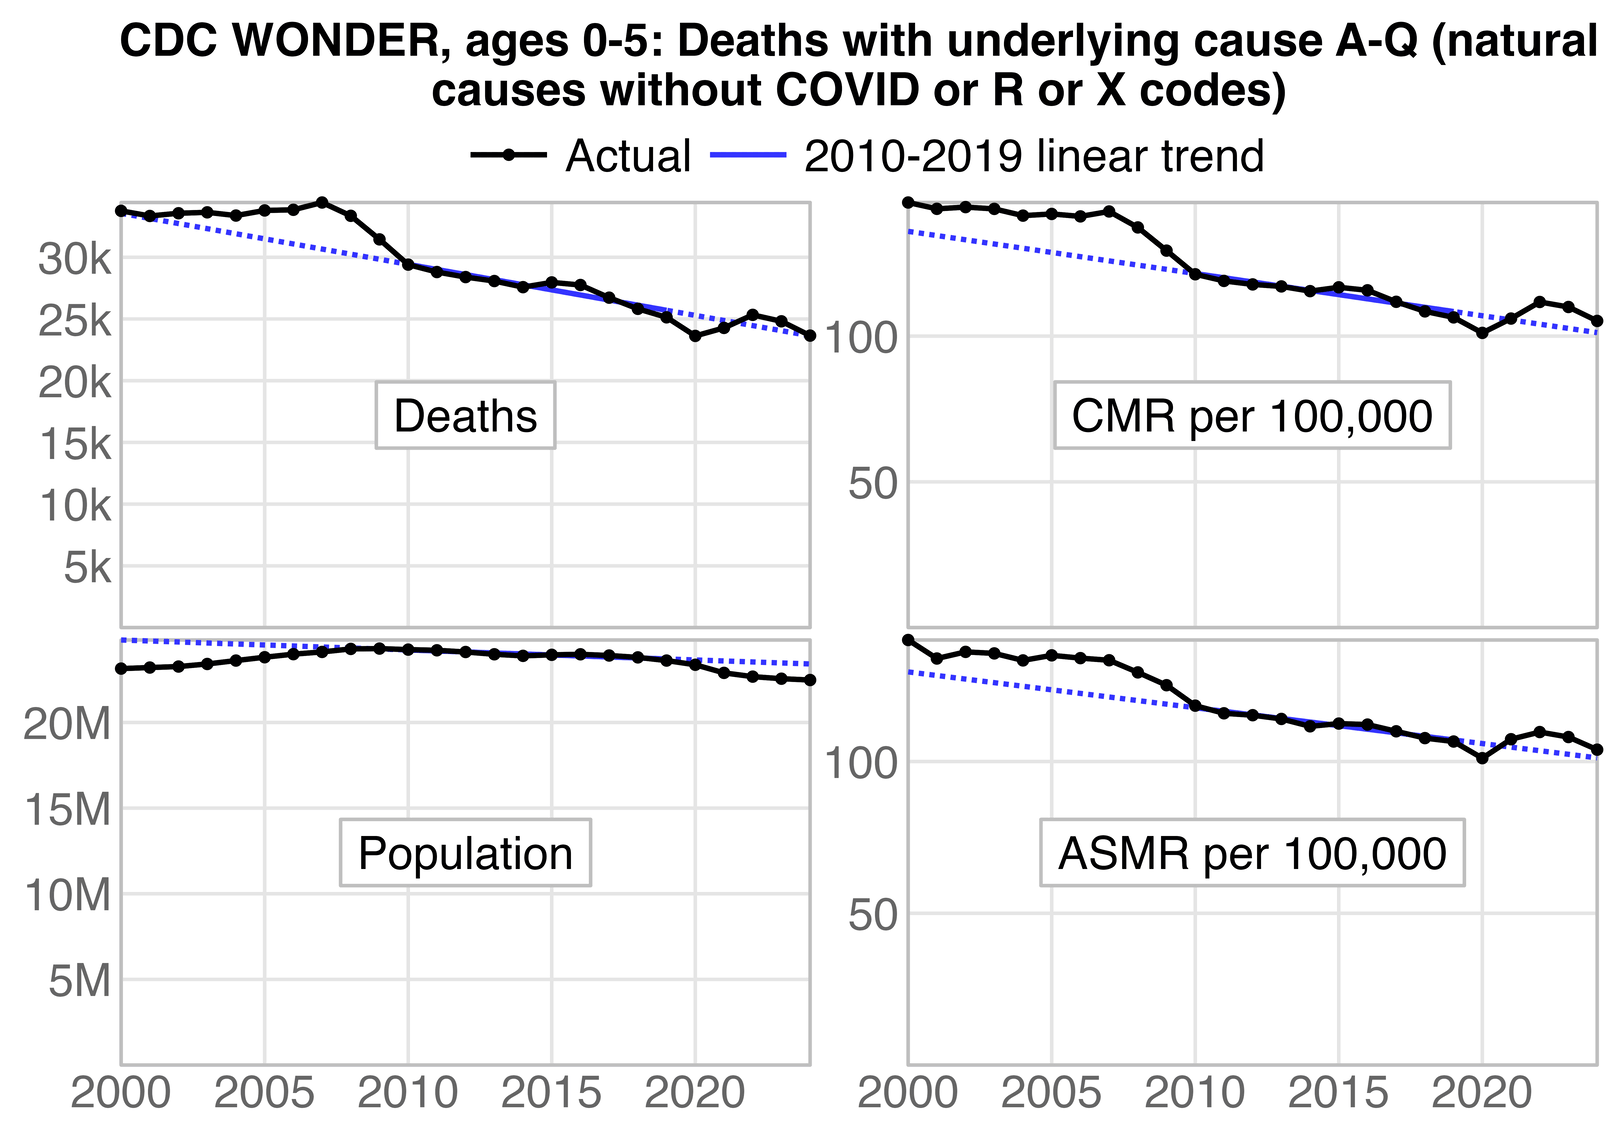
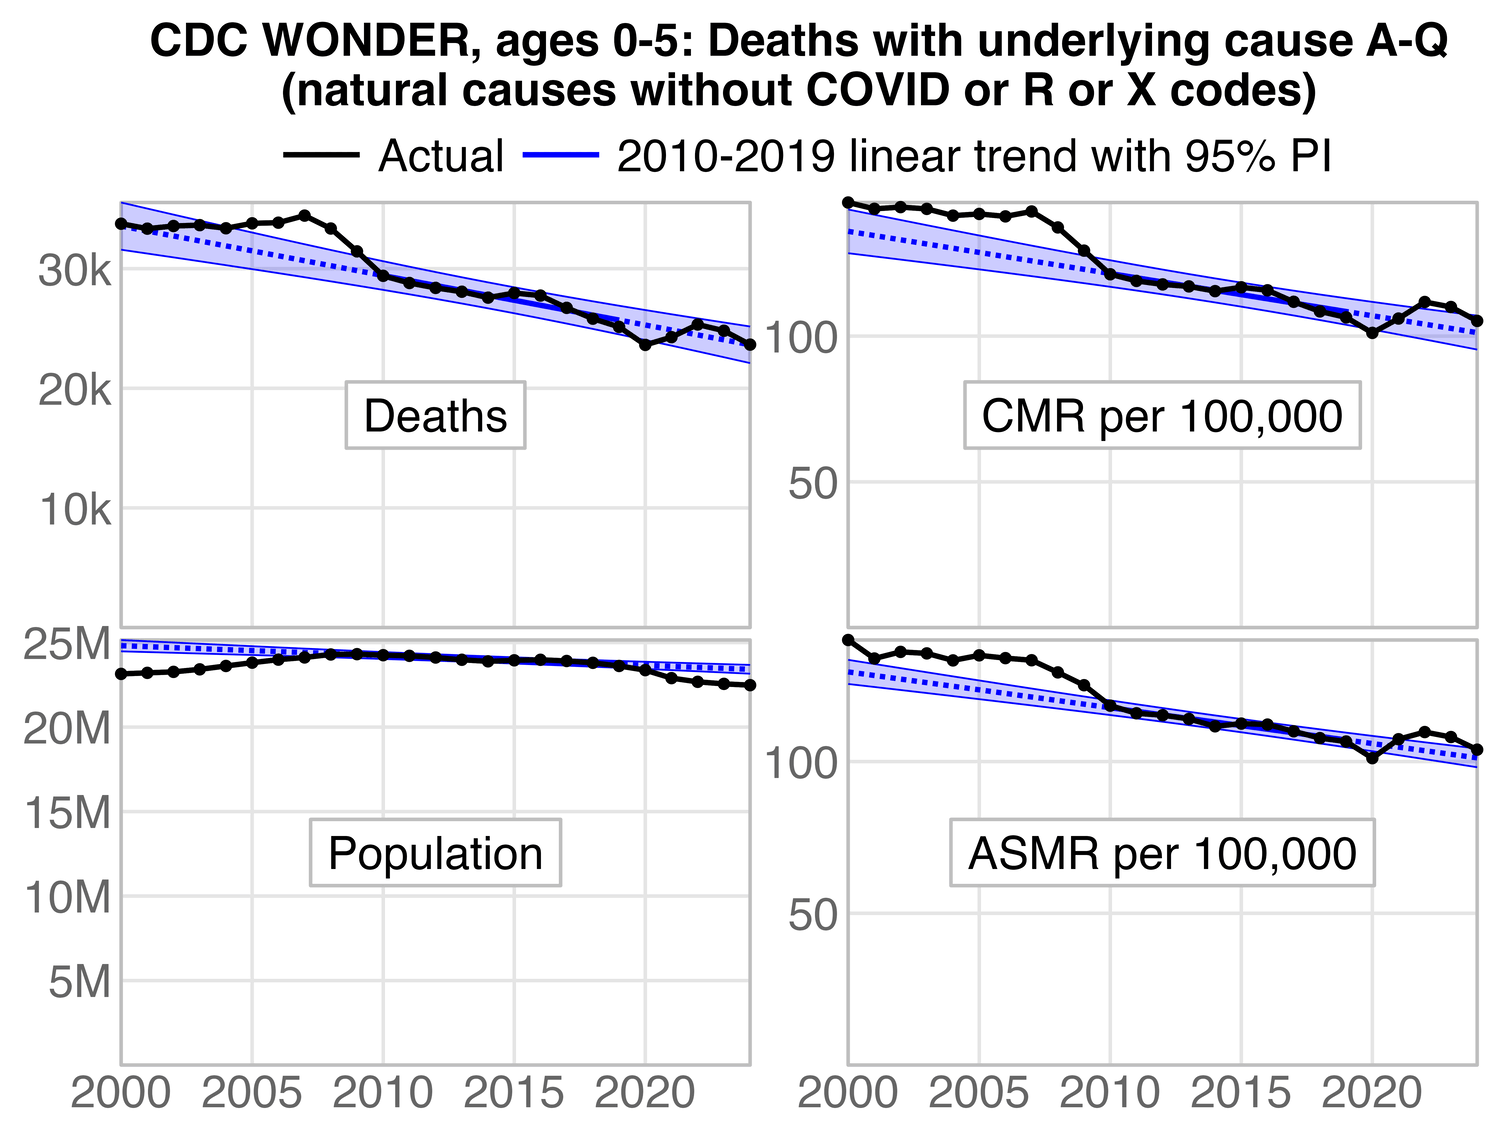
a

diff --git a/rootclaim5.html b/rootclaim5.html
@@ -1455,7 +1455,9 @@ healthycovid/(healthycovid+healthynoncovid)
 <button>
 Show code
 </button>
-<pre>t=fread(&quot;Otevrena-data-NR-26-30-COVID-19-prehled-populace-2024-01.csv.gz&quot;)
+<pre>library(data.table);library(ggplot2)
+
+t=fread(&quot;Otevrena-data-NR-26-30-COVID-19-prehled-populace-2024-01.csv.gz&quot;)
 t=t[RokNarozeni&gt;=&quot;1940&quot;]
 t[Umrti!=&quot;&quot;&amp;DatumUmrtiLPZ==&quot;&quot;,DatumUmrtiLPZ:=Umrti]
 t[Umrti!=&quot;&quot;&amp;DatumUmrtiLPZ!=Umrti,Umrti:=DatumUmrtiLPZ]
@@ -1465,15 +1467,12 @@ t[,born:=ifelse(RokNarozeni&gt;=&quot;2000&quot;,&quot;2000+&quot;,RokNarozeni)]
 t[Datum_Prvni_davka&gt;=&quot;2021-24&quot;,Datum_Prvni_davka:=&quot;&quot;]
 
 t2=t[Infekce%in%c(NA,1)]
-
 dead=t2[,.(unvaxdead=sum(!vax),vaxdead=sum(vax)),.(week=DatumUmrtiLPZ,born)]
 coviddead=t[,.(unvaxcoviddead=sum(!vax),vaxcoviddead=sum(vax)),.(week=Umrti,born)]
 vax=t2[,.(newvax=.N),.(week=Datum_Prvni_davka,born)]
 
 a=merge(dead,merge(coviddead,vax,all=T),all=T)[week!=&quot;&quot;]
-a=rbind(a,cbind(do.call(CJ,lapply(a[,1:2],unique)),a[1,-(1:2)][,lapply(.SD,\(x)0)]))
-a=a[rowid(week,born)==1][order(born,week)]
-a[is.na(a)]=0
+a=merge(do.call(CJ,lapply(a[,1:2],unique)),a,all=T);a[is.na(a)]=0
 
 a=merge(t2[,.(startpop=.N),born],a)
 a[,unvaxpop:=startpop-cumsum(unvaxdead)-cumsum(newvax),born]
@@ -1485,9 +1484,9 @@ l=l[week&gt;=&quot;2021-24&quot;]
 
 l=merge(l,l[week==&quot;2022-01&quot;,sum(pop),born][,.(std=V1/sum(V1),born)])
 
-a2=l[,.(dead=sum(dead),covid=sum(covid),pop=sum(pop)),.(week,dose)]
-p1=a2[,.(y=c(dead,dead-covid),type=1:2,facet=1),.(week,dose)]
-p2=a2[,.(y=c(dead,dead-covid)/pop/7*365e5,type=1:2,facet=2),.(week,dose)]
+l2=l[,.(dead=sum(dead),covid=sum(covid),pop=sum(pop)),.(week,dose)]
+p1=l2[,.(y=c(dead,dead-covid),type=1:2,facet=1),.(week,dose)]
+p2=l2[,.(y=c(dead,dead-covid)/pop/7*365e5,type=1:2,facet=2),.(week,dose)]
 p3=l[,.(y=c(sum(dead/pop*std),sum((dead-covid)/pop*std))/7*365e5,type=1:2,facet=3),.(week,dose)]
 
 cum=l[,.(dead=cumsum(dead),covid=cumsum(covid),pop=cumsum(pop),week),.(born,dose,std)]
@@ -1502,8 +1501,8 @@ p[,type:=factor(type,,c(&quot;All causes&quot;,&quot;Not COVID&quot;))]
 p[,facet:=factor(facet,,c(&quot;Deaths&quot;,&quot;CMR&quot;,&quot;ASMR&quot;))]
 p[,cum:=factor(cum,,c(&quot;Not cumulative&quot;,&quot;Cumulative&quot;))]
 
-weeks=data.table(date=as.Date(&quot;2019-1-1&quot;)+(0:3e3))[,week:=format(date,&quot;%G-%V&quot;)][rowid(week)==4,setNames(date,week)]
-p[,x:=weeks[week]]
+iso=as.Date(0:1e4*7,&quot;1970-1-1&quot;);names(iso)=format(iso,&quot;%G-%V&quot;)
+p[,x:=iso[week]]
 
 xstart=as.Date(&quot;2021-1-1&quot;);xend=as.Date(&quot;2025-1-1&quot;);xbreak=seq(xstart+182,xend,&quot;year&quot;);xlab=year(xbreak)
 ybreak=pretty(c(0,p$y),7);yend=max(ybreak)
@@ -1511,7 +1510,7 @@ ybreak=pretty(c(0,p$y),7);yend=max(ybreak)
 ggplot(p)+
 facet_grid(facet~cum,scales=&quot;free&quot;)+
 geom_vline(xintercept=seq(xstart,xend,&quot;year&quot;),color=&quot;gray87&quot;,linewidth=.4,lineend=&quot;square&quot;)+
-geom_vline(xintercept=weeks[&quot;2021-24&quot;]-3.5,color=&quot;gray87&quot;,linewidth=.4,linetype=&quot;22&quot;)+
+geom_vline(xintercept=iso[&quot;2021-24&quot;]-3.5,color=&quot;gray87&quot;,linewidth=.4,linetype=&quot;22&quot;)+
 geom_line(aes(x,y,color=dose,alpha=type),linewidth=.6)+
 labs(x=NULL,y=NULL,title=&quot;Czech Republic, people born in 1940 or later&quot;)+
 scale_x_continuous(limits=c(xstart,xend),breaks=xbreak,labels=xlab)+
@@ -1519,7 +1518,7 @@ scale_y_continuous(limits=\(x)range(pretty(c(0,x),4)),breaks=\(x)pretty(c(0,x),4
 scale_color_manual(values=c(&quot;black&quot;,&quot;#66f&quot;,&quot;#f66&quot;))+
 scale_alpha_manual(values=c(1,.4))+
 coord_cartesian(clip=&quot;off&quot;,expand=F)+
-theme(axis.text=element_text(size=11,color=&quot;gray50&quot;,margin=margin(3,3,3,3)),
+theme(axis.text=element_text(size=11,color=&quot;gray50&quot;,margin=margin(2,2,2,2)),
   axis.ticks.length=unit(0,&quot;pt&quot;),
   legend.background=element_rect(color=&quot;gray87&quot;,linewidth=.4),
   legend.box=&quot;vertical&quot;,
@@ -1540,13 +1539,11 @@ theme(axis.text=element_text(size=11,color=&quot;gray50&quot;,margin=margin(3,3,
   panel.grid.major.x=element_blank(),
   panel.grid.major.y=element_line(linewidth=.4,color=&quot;gray87&quot;),
   panel.spacing=unit(2,&quot;pt&quot;),
-  plot.margin=margin(4,4,4,4),
-  plot.title=element_text(size=11,face=2,hjust=.5,margin=margin(2,,4)),
+  plot.title=element_text(size=11,face=2,hjust=.5,margin=margin(1,,4)),
   strip.background=element_blank(),
   strip.text=element_text(size=11,margin=margin(3,3,3,3)))
 ggsave(&quot;1.png&quot;,width=5,height=4,dpi=300*4)
-
-sub=&quot;The observation period starts on week 24 of 2021. People who received a first dose on week 24 of 2021 or later are counted as unvaccinated. The CMR and ASMR are deaths per 100,000 person-years. The ASMR was calculated by 5-year groups for other years of birth but people born in the 2000s were combined into a single group. The population included in the dataset on week 1 of 2022 was used as the standard population.&quot;
+sub=&quot;The observation period starts on week 24 of 2021. People who received a first dose on week 24 of 2021 or later are counted as unvaccinated. The CMR and ASMR values are deaths per 100,000 person-years. The ASMR was calculated by 5-year groups for other years of birth but people born in the 2000s were combined into a single group. The population included in the dataset on week 1 of 2022 was used as the standard population.&quot;
 system(paste0(&quot;mogrify -trim 1.png;magick 1.png \\( -size `identify -format %w 1.png`x -font Arial -interline-spacing -3 -pointsize $[44*4] caption:&#39;&quot;,gsub(&quot;&#39;&quot;,&quot;&#39;\\\\&#39;&#39;&quot;,sub),&quot;&#39; -splice x80 \\) -append -resize 25% -bordercolor white -border 24 -dither none -colors 256 1.png&quot;))</pre>
 </div>
 <p>Kirsch says that if the ratio between vaccinated and unvaccinated mortality is higher in 2022 than 2021, it means that unvaccinated people did worse than vaccinated people in 2022. But in reality it could also be that unvaccinated people did worse in both 2022 and 2021, but they did even more worse in 2021.</p>
@@ -2405,7 +2402,7 @@ awk &#39;substr($0,20,1)!=4{isucd=substr($0,146,4)==&quot;U071&quot;;ismcd=0;isi
 <p>The number of deaths by immediate or underlying cause is nearly the same as the number of deaths by underlying cause alone. So it won't make much difference if you only retrieve deaths with underlying cause COVID at CDC WONDER but you don't additionally include deaths with immediate cause COVID.</p>
 <p>I got similar results as Jean Fisch here:</p>
 <div>
-<img src=i/rootclaim-levifisch.png width=550>
+<img src=i/rootclaim-levifisch.png width=520>
 </div>
 <div class="spoiler">
 <button>
@@ -2429,7 +2426,7 @@ p[,age:=factor(age,,levi[,paste0(age,c(paste0(&quot;-&quot;,age[-1]-1),&quot;+&q
 lab=format(seq(as.Date(&quot;2021-1-1&quot;),,&quot;month&quot;,8),&quot;%b %y&quot;)
 lab=paste0(lab,&quot;-&quot;,format(seq(as.Date(&quot;2021-12-1&quot;),,&quot;month&quot;,8),&quot;%b %y&quot;))
 
-xstart=1;xend=8;0:5*5;yend=25
+xstart=1;xend=8;ybreak=0:5*5;yend=25
 
 ggplot(p)+
 facet_wrap(~age,ncol=2,dir=&quot;v&quot;)+

diff --git a/ethical2.html b/ethical2.html
@@ -3095,7 +3095,7 @@ round(a[,pctchange:=(cmr/c(NA,cmr[-.N])-1)*100][],1)
 <div>
 <img src=i/ethical-vaccinial.png width=800>
 </div>
-<p>I don't know what ICD codes he included in his plot. But when I simply looked at chapters A-Q, I got only about 3% excess ASMR in 2024 relative to a 2010-2019 linear trend:</p>
+<p>I don't know what ICD codes he included in his plot. But when I simply looked at chapters A-Q, I got only about 3% excess ASMR in 2024 relative to a 2010-2019 linear trend (even though the ASMR in 2024 was still lower than any previous year except for 2020):</p>
 <div>
 <img src=i/ethical-vaccinial-2.png width=600>
 </div>
@@ -3110,30 +3110,33 @@ a=merge(a,fread(&quot;https://sars2.net/f/uspopdead.csv&quot;)[,.(age,year,pop,d
 a=fread(&quot;https://sars2.net/f/uspopdead.csv&quot;)[,.(age,year,pop,dead)][age%in%0:5&amp;year%in%2000:2024]
 a=merge(a[year==2020,sum(pop),age][,.(age,std=V1/sum(V1))],a)
 
-p=a[,.(y=c(sum(dead),sum(pop),sum(dead)/sum(pop)*1e5,sum(dead/pop*std*1e5)),facet=1:4,z=1),.(x=year)]
-
-p=rbind(p,p[,.(x,y=predict(lm(y~x,.SD[x%in%2010:2019]),.SD),z=2),facet])
+p=a[,.(y=c(sum(dead),sum(pop),sum(dead)/sum(pop)*1e5,sum(dead/pop*std*1e5)),facet=1:4),.(x=year)]
+p=p[,cbind(.SD,predict(lm(y~x,.SD[x%in%2010:2019]),.SD,interval=&quot;prediction&quot;,level=.95)),facet]
 
 p[,facet:=factor(facet,,c(&quot;Deaths&quot;,&quot;Population&quot;,&quot;CMR per 100,000&quot;,&quot;ASMR per 100,000&quot;))]
-p[,z:=factor(z,,c(&quot;Actual&quot;,&quot;2010-2019 linear trend&quot;))]
+
+lab=c(&quot;Actual&quot;,&quot;2010-2019 linear trend with 95% PI&quot;)
+lab=factor(lab,unique(lab))
 
 xstart=2000;xend=2024;xbreak=seq(xstart,xend,5)
-ybreak=pretty(c(0,p$y));ystart=0;yend=max(ybreak)
+ybreak=pretty(c(0,p[,c(y,lwr,upr)]));ystart=0;yend=max(ybreak)
+ylim=p[,.(max=max(y,upr)),facet]
 
 ggplot(p)+
 facet_wrap(~facet,ncol=2,dir=&quot;v&quot;,scales=&quot;free_y&quot;)+
-geom_rect(data=p[,max(y),facet],aes(ymax=V1),ymin=0,xmin=xstart,xmax=xend,lineend=&quot;square&quot;,linejoin=&quot;mitre&quot;,fill=NA,color=&quot;gray75&quot;,linewidth=.4)+
-geom_line(data=p[!(rleid(z)==2&amp;!x%in%2010:2019)],aes(x,y,color=z),linewidth=.6)+
-geom_line(data=p[rleid(z)==2],aes(x,y,color=z),linetype=&quot;11&quot;,linewidth=.6)+
-geom_line(data=p[rleid(z)==1],aes(x,y,color=z),linewidth=.6)+
-geom_point(aes(x,y,alpha=z),stroke=0,size=1.4)+
-geom_label(data=p[,max(y)/2,facet],aes(y=V1,label=facet),x=pmean(xstart,xend),size=3.87,label.r=unit(0,&quot;pt&quot;),label.padding=unit(4,&quot;pt&quot;),label.size=.4,fill=&quot;white&quot;,color=&quot;gray75&quot;)+
-geom_label(data=p[,max(y)/2,facet],aes(y=V1,label=facet),x=pmean(xstart,xend),size=3.87,label.r=unit(0,&quot;pt&quot;),label.padding=unit(4,&quot;pt&quot;),label.size=0,fill=NA,)+
-labs(title=&quot;CDC WONDER, ages 0-5: Deaths with underlying cause A-Q (natural\ncauses without COVID or R or X codes)&quot;,x=NULL,y=NULL)+
+geom_rect(data=ylim,aes(ymax=max),ymin=0,xmin=xstart,xmax=xend,lineend=&quot;square&quot;,linejoin=&quot;mitre&quot;,fill=NA,color=&quot;gray75&quot;,linewidth=.4)+
+geom_ribbon(aes(x,ymin=lwr,ymax=upr),fill=&quot;blue&quot;,color=&quot;blue&quot;,alpha=.2,linewidth=.2)+
+geom_line(aes(x,y,color=lab[1]),linewidth=.6)+
+geom_line(data=p[x%in%2010:2019],aes(x,fit,color=lab[2]),linewidth=.6)+
+geom_line(aes(x,fit,color=lab[2]),linetype=&quot;11&quot;,linewidth=.6)+
+geom_line(aes(x,y,color=lab[1]),linewidth=.6)+
+geom_point(aes(x,y,color=lab[1]),stroke=0,size=1.4,show.legend=F)+
+geom_label(data=ylim,aes(mean(c(xstart,xend)),max/2,label=facet),size=3.87,label.r=unit(0,&quot;pt&quot;),label.padding=unit(4,&quot;pt&quot;),label.size=.4,fill=&quot;white&quot;,color=&quot;gray75&quot;)+
+geom_label(data=ylim,aes(mean(c(xstart,xend)),max/2,label=facet),size=3.87,label.r=unit(0,&quot;pt&quot;),label.padding=unit(4,&quot;pt&quot;),label.size=0,fill=NA,)+
+labs(title=&quot;CDC WONDER, ages 0-5: Deaths with underlying cause A-Q\n(natural causes without COVID or R or X codes)&quot;,x=NULL,y=NULL)+
 scale_x_continuous(limits=c(xstart,xend),breaks=xbreak,labels=xbreak)+
 scale_y_continuous(limits=\(x)c(0,max(x)),breaks=\(x)pretty(c(0,x)),labels=\(x)ifelse(x==0,&quot;&quot;,kim(x)))+
-scale_color_manual(values=c(&quot;black&quot;,&quot;#3333ff&quot;))+
-scale_alpha_manual(values=1:0)+
+scale_color_manual(labels=lab,values=c(&quot;black&quot;,&quot;blue&quot;))+
 coord_cartesian(clip=&quot;off&quot;,expand=F)+
 theme(axis.text=element_text(size=11,color=&quot;gray40&quot;),
   axis.ticks.length=unit(0,&quot;pt&quot;),
@@ -3155,7 +3158,7 @@ theme(axis.text=element_text(size=11,color=&quot;gray40&quot;),
   plot.title=element_text(size=11,hjust=.5,face=&quot;bold&quot;,margin=margin(,,4)),
   strip.background=element_blank(),
   strip.text=element_blank())
-ggsave(&quot;1.png&quot;,width=5.4,height=3.8,dpi=300*4)</pre>
+ggsave(&quot;1.png&quot;,width=5,height=3.8,dpi=300*4)</pre>
 </div>
 <p>Next I tried using WebPlotDigitizer to digitize the excess deaths in his plot, which was able to closely approximate the weekly number of excess deaths: <a href=https://automeris.io/wpd/.><a href="https://automeris.io/wpd/" class="uri">https://automeris.io/wpd/</a>.</a> Then I reverse engineered his baseline by subtracting the approximated excess deaths from the actual weekly deaths for UCD A-Q. The yellow lines here show that Ethical Skeptic's baseline roughly overlapped with my three baselines in 2019, but the slope of his baseline changed dramatically after 2019:</p>
 <div>
